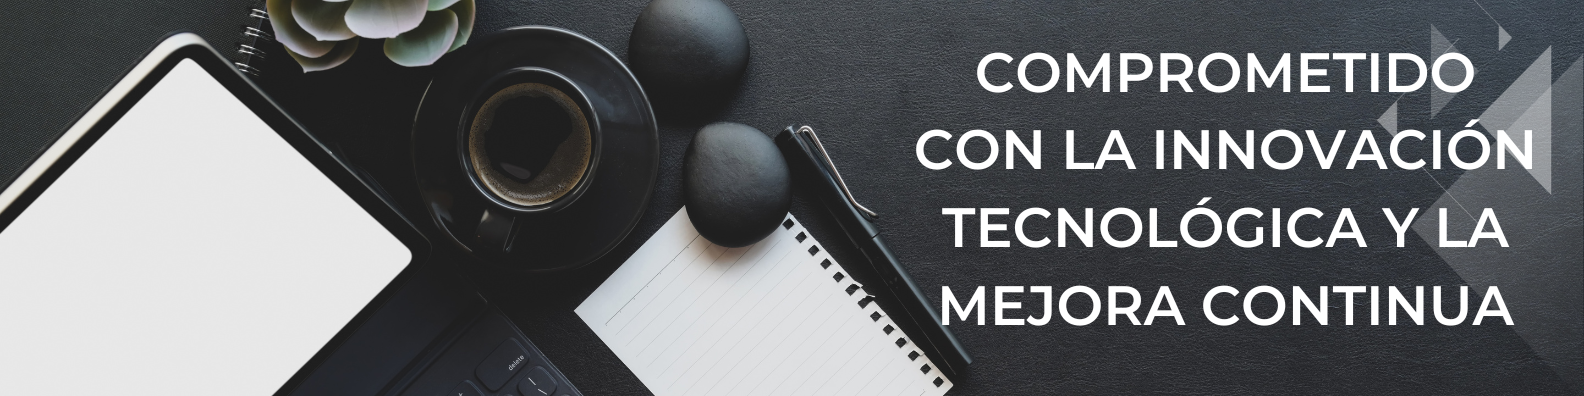
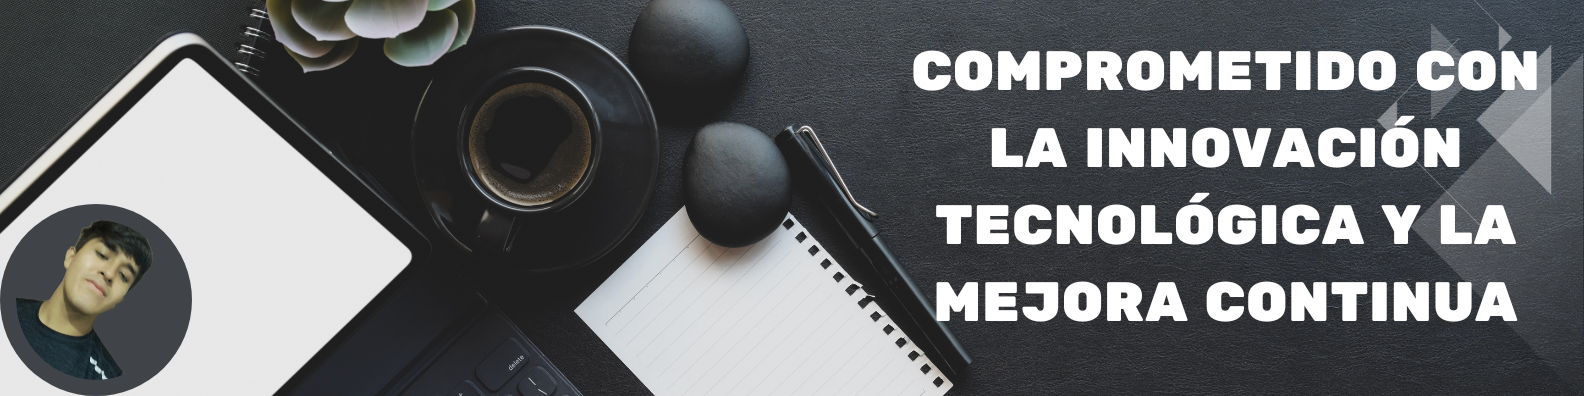
actualizar el archivo README.md

diff --git a/README.md b/README.md
@@ -1,15 +1,12 @@
-# ![Banner](./images/banner.png)  
-### Full Stack Developer
+# [Profile](./images/avatar_pequeño.png) **Hola, mi nombre es Jeremy Rosas** 🚀  
+### Full Stack Developer  
 
-![Profile](./images/profile_github.png)
+![Banner](./images/banner.png)  
 
-Soy **Jeremy Rosas** 🚀, apasionado del desarrollo **full stack** y estudiante de Ingeniería de Sistemas.  
-Transformo ideas en experiencias digitales con una combinación de creatividad, estrategia y precisión técnica.  
-Me motiva la **resolución de problemas**, la **optimización de procesos** y la **innovación constante**.  
 
-Siempre estoy explorando nuevas formas de mejorar cada proyecto y crecer como profesional.  
-Cuando no estoy programando, disfruto correr con mi mascota y mantenerme al día con las últimas tendencias tecnológicas.  
-
+Apasionado por el desarrollo web full stack y estudiante de Ingeniería de Sistemas.
+Transformo ideas en experiencias digitales, combinando creatividad, estrategia y técnica, utilizando stacks como MERN y MEAN.
+Motivado por la resolución de problemas, la optimización de procesos y la innovación constante.
 ---
 
 ## Encuéntrame en:
@@ -23,7 +20,3 @@ Cuando no estoy programando, disfruto correr con mi mascota y mantenerme al día
 - Full Stack Developer enfocado en construir **aplicaciones web eficientes y escalables**.  
 - Apasionado por la **optimización de procesos** y la **arquitectura de software clara**.  
 - En constante aprendizaje y abierto a **nuevas oportunidades de colaboración**.  
-
----
-
-✨ *“El código es mi manera de transformar ideas en realidades digitales.”*
